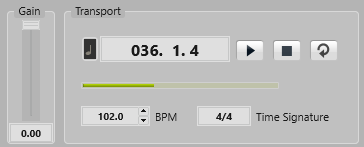
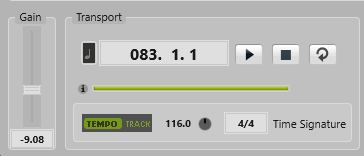
[update] doc for transport section

diff --git a/src/pages/What+is+the+VST+3+SDK/Plug-in+Test+Host.md b/src/pages/What+is+the+VST+3+SDK/Plug-in+Test+Host.md
@@ -32,9 +32,12 @@ You could start **VST3PluginTestHost** with some options in the command line:
 
  - Speficy a folder where the app should scan **VST 3** Plug-ins:
     - --pluginfolder "Folder to scan for plug-ins"
+    - for examples: 
+      - *VST3PluginTestHost.exe --pluginfolder "C:\Development\VST3"*
  - Rendering *MIDI* files into audio files for the first loaded instrument (samplerate and blocksize (size of audio block in samples) are optionals; if not provided, the current settings of the ASIO is used):
     - --audioexport "MIDI Folder location" "Audio Output Folder" [samplerate] [blocksize]
-    - for example: 
+    - for examples: 
+      - *VST3PluginTestHost.exe --audioexport "C:\Content\MIDI" "C:\Content\Audio Output"*
       - *VST3PluginTestHost.exe --audioexport "C:\Content\MIDI" "C:\Content\Audio Output" 48000 128*
 
 ### Menu Description
@@ -46,7 +49,7 @@ You could start **VST3PluginTestHost** with some options in the command line:
 - **File => Load Preset...**: Load a VST 3 Preset for the first loaded plug-in (first slot).
 - **File => Save Preset...**: Save a VST 3 Preset for the first loaded plug-in.
 ---
-- **File => Load MIDI File...**: Load a MIDI file which could be played by using the transport section, all loaded plug-ins will received the MIDI events.
+- **File => Load MIDI File...**: Load a MIDI file which could be played by using the transport section, all loaded plug-ins will received the MIDI events. It also sends MIDI program change messages when a MIDI file is loaded.
 ---
 - **File => Export Audio...**: this allows to choose a folder with MIDI files, loaded each of them and export the audio renderings of the first loaded plug-in.
 - **File => Export Audio for current loaded MIDI...**: this allows to use the current loaded MIDI file for exporting the audio renderings of the first loaded plug-in.
@@ -162,10 +165,30 @@ Right click on the opened plug-in opens a context menu which allows to trigger s
 
 ### Transport
 
+![what_if_21](../../resources/what_is_21.png)
+
 In this section you can:
 
-| • set the gain of the output audio<br> • toggle time format between Seconds and Bars and Beats<br> • set the gain of the output audio<br> • change the song position<br> • control the transport state (Loop/Start/Stop/Rewind)<br> • change the tempo and signature | ![what_if_21](../../resources/what_is_21.png) |
-| :- | - |
+ - Set the gain of the output audio
+ - Toggle time format between Time and Bars
+ - See the current time Display
+ - Control the transport state (Start/Stop/Rewind/Loop)
+   - Click Play to start playback of the MIDI file/Pattern.
+   - Click Stop to pause the MIDI file/Pattern at the current position.
+   - Click the button twice to reset the song position to the start.
+   - Activate Loop to play the entire MIDI file in a loop.
+ - See which MIDI file is currently loaded when hover over the info icon
+ - Change the song position
+   - The song position indicator shows the position of the transport cursor. Above the song position indicator, the position is displayed as a number.
+   - To move the transport cursor, drag the song position indicator to a new position.
+ - Change tempo and signature
+   - Tempo: 
+     - Set this parameter to Track to follow the original tempo of the MIDI file.
+With the Adjust Tempo parameter, you can scale the playback relatively to the original tempo of the MIDI file.
+     - Set this parameter to Fixed to enter the tempo manually.
+   - Time Signature:
+     - Determines the time signature. You can enter a new time signature in fractions of beats.
+
 
 ## VST 3 Plug-ins Tests Window
 
